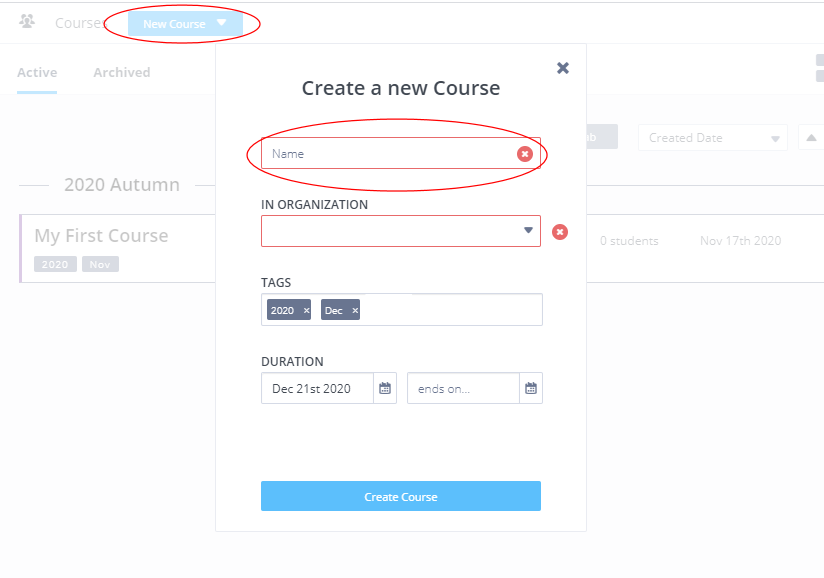
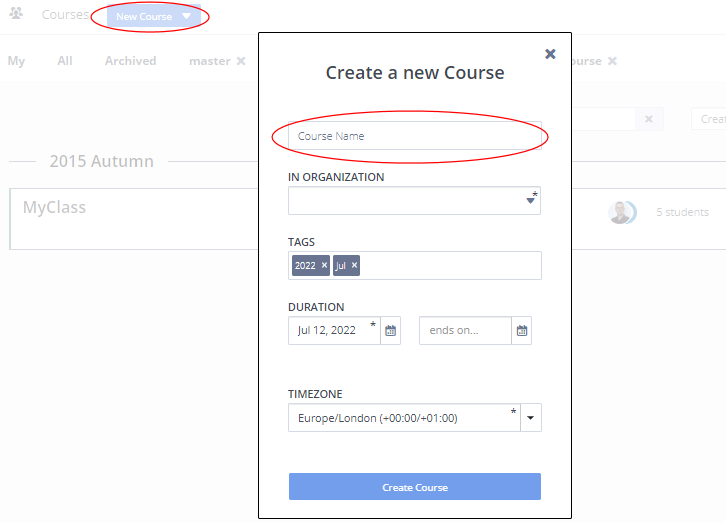
changelog #13994 (#168)
* changelog #13994

* update

* another update

diff --git a/source/instructors/setupcourses/assignment-settings/assignment-duration.rst b/source/instructors/setupcourses/assignment-settings/assignment-duration.rst
@@ -23,7 +23,8 @@ To set the assignment duration, follow these steps:
    - Click the **Calendar** icon and select the date.
    - Click the **Clock** icon and select the time.
 
-   .. Note:: The time zone is automatically determined by your browser time zone.
+Note:: The time zone is automatically taken from the Course time zone, if you wish to change to a different time zone click the 'click here' link to open the Course Details settings. There you can change the time zone for all the assignments in the course.
+
 
 4. Click the **On Assignment End** drop-down and choose one of the following options to indicate what happens when the **End Time** has been reached:
 

diff --git a/source/instructors/setupcourses/create-course.rst b/source/instructors/setupcourses/create-course.rst
@@ -19,7 +19,7 @@ To create an empty course, follow these steps:
    .. image:: /img/manage_classes/addcourse.png
       :alt: New Course
 
-4. Complete the fields on the **Create a new Course** form, including the **Name**, **Duration** (optional) and **Tags** (optional).
+4. Complete the fields on the **Create a new Course** form, including the **Name**, **Duration** (optional) and **Tags** (optional). If you wish to set a different timezone for your course you can do so from the **Timezone** drop down field
 
    .. image:: /img/manage_classes/create_class/new-class.png
       :alt: Create Empty Course
